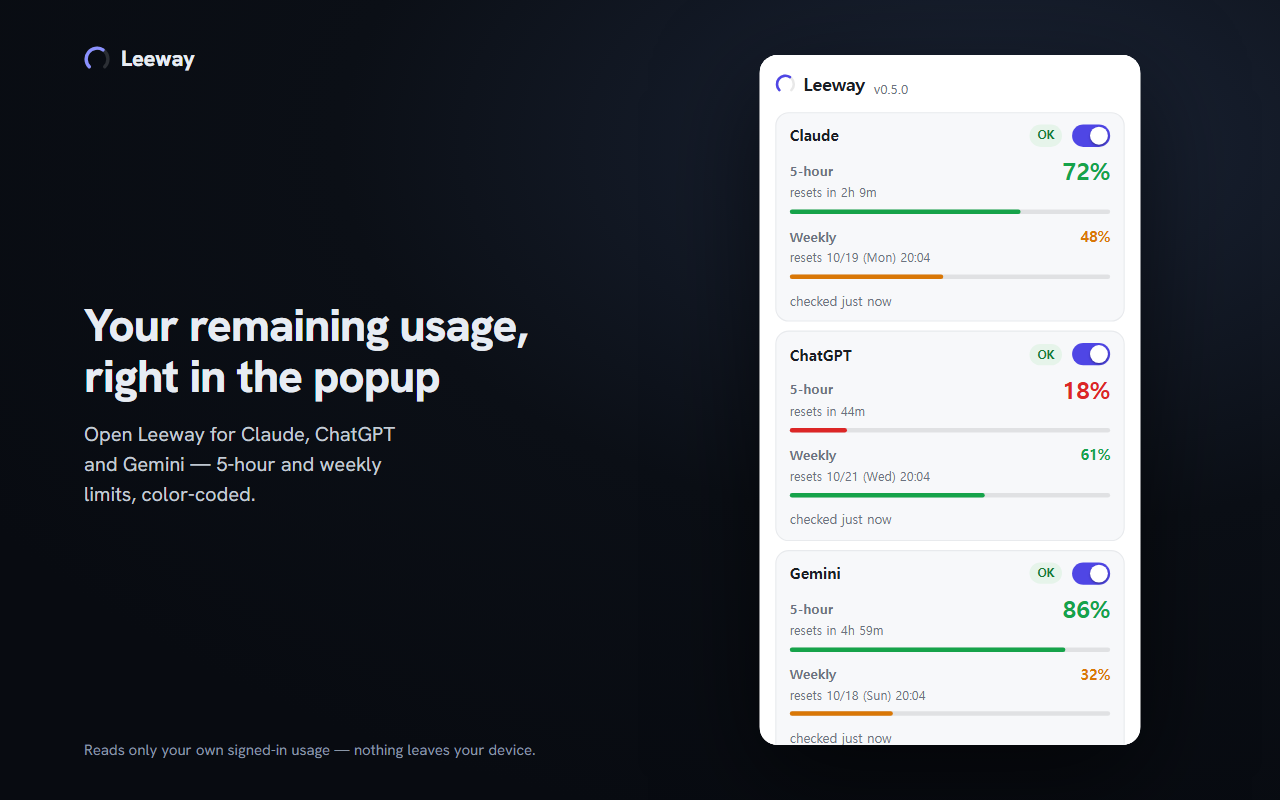
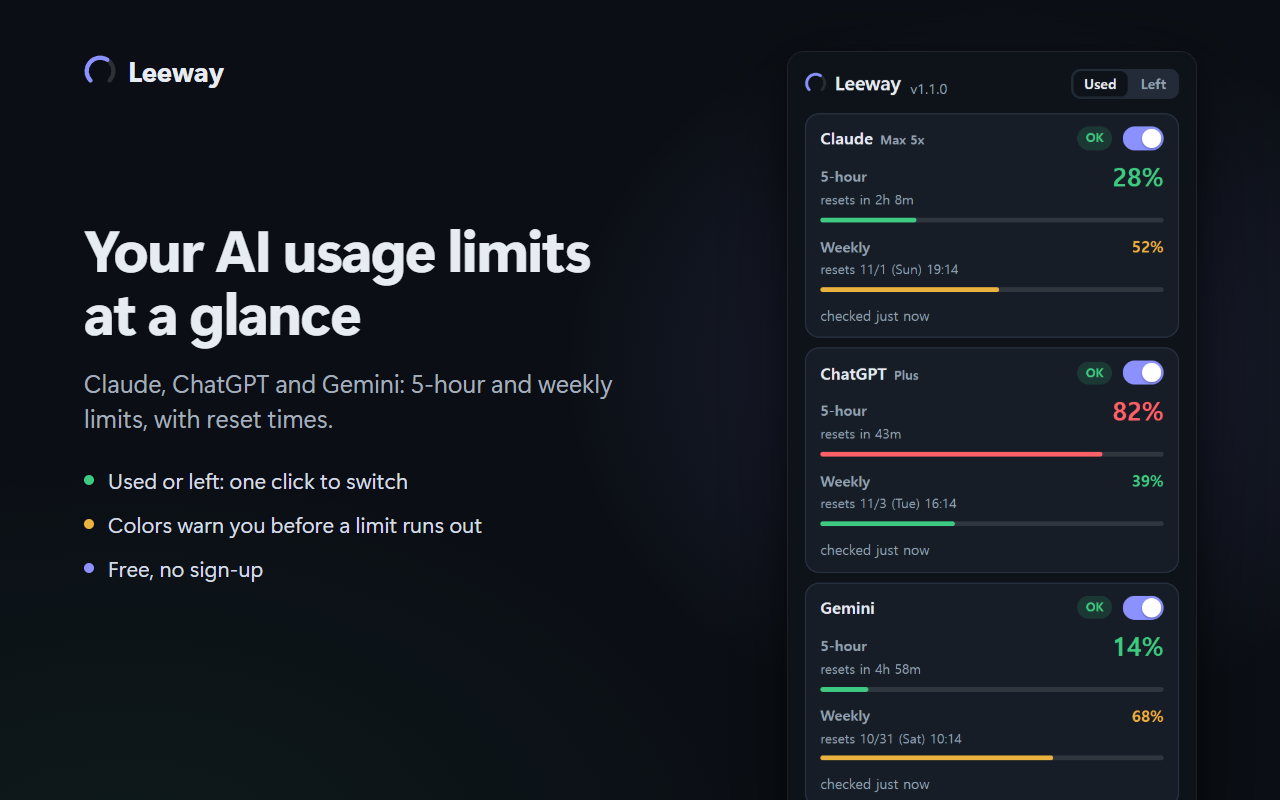
docs: used by default — README, site, llms.txt, privacy policy, store summary
The intro text said "remaining" everywhere; numbers are now the used
percentage unless the popup is switched to Left.

- README, both product pages (with their JSON-LD) and llms.txt: used or
  left, the switch, colours by what is left, the badge as the service
  closest to its limit. A new FAQ: "Can it show what is left instead?"
- Privacy policy (both copies): the intro, the switch's setting among
  what is stored, and the values sent to the helper stored as remaining.
- appDesc in six languages, and the Chinese app names without "剩余/剩餘".
- docs/img/popup.png: the 1.1.0 popup (demo values, used).

diff --git a/docs/ko/index.html b/docs/ko/index.html
@@ -3,16 +3,16 @@
 <head>
 <meta charset="utf-8">
 <meta name="viewport" content="width=device-width, initial-scale=1">
-<title>Leeway — Claude·ChatGPT·Gemini 남은 사용량을 Chrome에서</title>
-<meta name="description" content="Leeway는 Claude, ChatGPT, Gemini의 5시간·주간 사용량 한도가 얼마나 남았는지 팝업, 툴바 배지, 항상 위에 뜨는 오버레이로 보여주는 무료 오픈소스 Chrome 확장 프로그램입니다.">
+<title>Leeway — Claude·ChatGPT·Gemini 사용량 한도를 Chrome에서</title>
+<meta name="description" content="Leeway는 Claude, ChatGPT, Gemini의 5시간·주간 사용량 한도를 얼마나 썼는지(또는 얼마나 남았는지) 팝업, 툴바 배지, 항상 위에 뜨는 오버레이로 보여주는 무료 오픈소스 Chrome 확장 프로그램입니다.">
 <link rel="canonical" href="https://donasman.github.io/leeway/ko/">
 <link rel="alternate" hreflang="en" href="https://donasman.github.io/leeway/">
 <link rel="alternate" hreflang="ko" href="https://donasman.github.io/leeway/ko/">
 <link rel="alternate" hreflang="x-default" href="https://donasman.github.io/leeway/">
 <meta property="og:type" content="website">
 <meta property="og:locale" content="ko_KR">
-<meta property="og:title" content="Leeway — Claude·ChatGPT·Gemini 남은 사용량을 Chrome에서">
-<meta property="og:description" content="5시간·주간 AI 사용량 한도가 얼마나 남았는지 Chrome 툴바에서 바로 확인. 무료, 오픈소스, 데이터는 내 컴퓨터 밖으로 나가지 않습니다.">
+<meta property="og:title" content="Leeway — Claude·ChatGPT·Gemini 사용량 한도를 Chrome에서">
+<meta property="og:description" content="5시간·주간 AI 사용량 한도를 얼마나 썼는지, 얼마나 남았는지 Chrome 툴바에서 바로 확인. 무료, 오픈소스, 데이터는 내 컴퓨터 밖으로 나가지 않습니다.">
 <meta property="og:url" content="https://donasman.github.io/leeway/ko/">
 <meta property="og:image" content="https://donasman.github.io/leeway/img/popup.png">
 <meta name="twitter:card" content="summary_large_image">
@@ -22,7 +22,7 @@
   "@type": "SoftwareApplication",
   "name": "Leeway — AI usage & limits meter",
   "alternateName": "Leeway",
-  "description": "Claude, ChatGPT, Gemini의 5시간·주간 사용량 한도가 얼마나 남았는지 팝업, 툴바 배지, 항상 위 오버레이로 보여주는 Chrome 확장 프로그램.",
+  "description": "Claude, ChatGPT, Gemini의 5시간·주간 사용량 한도를 사용한 비율 또는 남은 비율로 팝업, 툴바 배지, 항상 위 오버레이에 보여주는 Chrome 확장 프로그램.",
   "applicationCategory": "BrowserApplication",
   "operatingSystem": "Google Chrome on Windows, macOS, Linux and ChromeOS",
   "url": "https://donasman.github.io/leeway/ko/",
@@ -44,17 +44,19 @@
   "inLanguage": "ko",
   "mainEntity": [
     {"@type": "Question", "name": "Claude 사용량이 얼마나 남았는지 어떻게 확인하나요?",
-     "acceptedAnswer": {"@type": "Answer", "text": "Chrome 웹 스토어에서 Leeway를 설치하고 팝업에서 Claude를 켜세요. Chrome에서 claude.ai에 로그인되어 있으면 팝업에 5시간·주간 한도의 남은 비율과 초기화 시각이 나오고, 툴바 배지에는 가장 낮은 남은 값이 표시됩니다."}},
+     "acceptedAnswer": {"@type": "Answer", "text": "Chrome 웹 스토어에서 Leeway를 설치하고 팝업에서 Claude를 켜세요. Chrome에서 claude.ai에 로그인되어 있으면 팝업에 5시간·주간 한도를 사용한 비율과 초기화 시각이 나오고, 툴바 배지에는 한도에 가장 가까운 서비스의 값이 표시됩니다. 남은 비율로 보려면 팝업 위쪽에서 남음을 고르세요."}},
+    {"@type": "Question", "name": "사용한 비율 대신 남은 비율로 볼 수 있나요?",
+     "acceptedAnswer": {"@type": "Answer", "text": "네. 팝업 위쪽의 사용 | 남음 전환으로 팝업, 오버레이, 툴바 배지의 모든 숫자를 남은 비율로 바꾸거나 되돌릴 수 있고, 고른 것은 기억합니다. 기본은 사용입니다. 색은 어느 쪽이든 남은 양을 따르므로 85% 사용이면 빨강입니다."}},
     {"@type": "Question", "name": "ChatGPT와 Gemini도 되나요?",
      "acceptedAnswer": {"@type": "Answer", "text": "네. ChatGPT는 설정 > 사용량 화면에 나오는 값, 즉 Codex, Work, 워크스페이스 에이전트, ChatGPT for Excel이 함께 쓰는 요금제 한도를 보여줍니다. 일반 채팅 대화는 그 화면에서 집계되지 않습니다. Gemini는 열려 있는 gemini.google.com/usage 탭의 숫자를 읽으므로 그 페이지가 열려 있어야 합니다. 팝업의 Gemini 사용량 버튼을 누르면 그 페이지를 열거나 이미 열린 탭으로 이동하고, 로드된 뒤 자동으로 읽습니다. Leeway는 그 탭이 메모리에서 내려가지 않게 하고, 뒤에 있는 탭의 숫자가 5분보다 오래됐거나 Chrome이 탭을 재웠으면 그 탭을 새로고침합니다. 보고 있는 탭은 건드리지 않습니다."}},
     {"@type": "Question", "name": "쿠키, 비밀번호, API 키를 넣어야 하나요?",
      "acceptedAnswer": {"@type": "Answer", "text": "아니요. Leeway는 Chrome에 이미 로그인된 세션을 그대로 씁니다. 비밀번호, 쿠키, API 키를 요구하지 않고, 세션 토큰은 저장·기록·전송하지 않습니다."}},
     {"@type": "Question", "name": "대화 내용을 읽나요?",
      "acceptedAnswer": {"@type": "Answer", "text": "아니요. 사용량 한도만 읽습니다. 페이지 스크립트는 각 서비스의 사용량 화면에서만 실행되고 대화 페이지에서는 실행되지 않습니다."}},
-    {"@type": "Question", "name": "작업하면서 남은 사용량을 계속 볼 수 있나요?",
+    {"@type": "Question", "name": "작업하면서 사용량을 계속 볼 수 있나요?",
      "acceptedAnswer": {"@type": "Answer", "text": "네. 팝업의 오버레이 열기를 누르면 작은 Leeway 창이 열리고, 그 창의 항상 위에 띄우기 버튼을 누르거나 바로 Enter를 누르면 Chrome의 Document Picture-in-Picture로 항상 위에 뜨는 작은 창이 열립니다(Chrome 116 이상). 클릭하면 한 줄로 접힙니다."}},
     {"@type": "Question", "name": "여러 계정을 한 번에 볼 수 있나요?",
-     "acceptedAnswer": {"@type": "Answer", "text": "claude.ai 로그인 하나가 개인 요금제와 Team 워크스페이스처럼 여러 조직에 속해 있으면 조직별로 따로 보여줍니다. 다른 계정은 계정마다 Chrome 프로필을 따로 두고 로그인하세요. Windows에서는 선택 기능인 Leeway helper(실험 기능)로 각 프로필이 다른 프로필의 남은 사용량도 함께 보여줍니다."}},
+     "acceptedAnswer": {"@type": "Answer", "text": "claude.ai 로그인 하나가 개인 요금제와 Team 워크스페이스처럼 여러 조직에 속해 있으면 조직별로 따로 보여줍니다. 다른 계정은 계정마다 Chrome 프로필을 따로 두고 로그인하세요. Windows에서는 선택 기능인 Leeway helper(실험 기능)로 각 프로필이 다른 프로필의 사용량도 함께 보여줍니다."}},
     {"@type": "Question", "name": "무료인가요? 공식 프로그램인가요?",
      "acceptedAnswer": {"@type": "Answer", "text": "Leeway는 MIT 라이선스의 무료 오픈소스입니다. Anthropic, OpenAI, Google과 관계없는 독립 프로젝트입니다."}}
   ]
@@ -95,18 +97,19 @@ footer{border-top:1px solid var(--line);margin-top:48px;padding-top:18px;color:v
 <div class="wrap">
 <nav><strong>Leeway</strong><span><a href="../">English</a><a href="../privacy/">개인정보처리방침</a><a href="https://github.com/donasman/leeway">GitHub</a></span></nav>
 
-<h1>Claude·ChatGPT·Gemini 남은 사용량을 Chrome에서 바로</h1>
-<p class="lead">Leeway는 AI 사용량 한도(5시간·주간)가 얼마나 남았는지 팝업, 툴바 배지, 항상 위에 뜨는 오버레이로 보여주는 무료 오픈소스 Chrome 확장 프로그램입니다.</p>
+<h1>Claude·ChatGPT·Gemini 사용량 한도를 Chrome에서 바로</h1>
+<p class="lead">Leeway는 AI 사용량 한도(5시간·주간)를 얼마나 썼는지, 또는 얼마나 남았는지 팝업, 툴바 배지, 항상 위에 뜨는 오버레이로 보여주는 무료 오픈소스 Chrome 확장 프로그램입니다.</p>
 <div class="cta">
   <a class="btn primary" href="https://chromewebstore.google.com/detail/dlifmhanolkjflblnofiifgkffhkpgga">Chrome에 추가 — 무료</a>
   <a class="btn" href="https://github.com/donasman/leeway">GitHub 소스</a>
 </div>
-<img class="shot" src="../img/popup.png" width="1280" height="800" alt="Claude, ChatGPT, Gemini의 5시간·주간 남은 사용량을 색으로 구분한 비율과 초기화 시각으로 보여주는 Leeway 팝업">
+<img class="shot" src="../img/popup.png" width="1280" height="800" alt="Claude, ChatGPT, Gemini의 5시간·주간 사용량을 색으로 구분한 비율과 초기화 시각으로 보여주는 Leeway 팝업">
 
 <h2>보여주는 것</h2>
 <ul>
-  <li><strong>남은 비율과 초기화 시각</strong> — 로그인된 사용량 화면이 보여주는 바로 그 숫자입니다. 토큰 수로 추정한 값이 아닙니다. 읽지 못한 값은 0%가 아니라 <code>?</code>로 표시합니다.</li>
-  <li><strong>툴바 배지</strong> — 켜 둔 서비스 중 가장 낮은 남은 값. 50 이상 초록, 20~49 주황, 20 미만 빨강, 오래된 값은 회색.</li>
+  <li><strong>사용한 비율과 초기화 시각</strong> — 로그인된 사용량 화면이 보여주는 바로 그 숫자입니다. 토큰 수로 추정한 값이 아닙니다. 읽지 못한 값은 0%가 아니라 <code>?</code>로 표시합니다.</li>
+  <li><strong>사용 또는 남음</strong> — 팝업 위쪽의 전환으로 팝업, 오버레이, 배지의 모든 숫자를 남은 비율로 바꾸거나 되돌립니다. 색은 어느 쪽이든 남은 양을 따릅니다.</li>
+  <li><strong>툴바 배지</strong> — 켜 둔 서비스 중 한도에 가장 가까운 서비스의 값. 남은 양이 50% 이상이면 초록, 20~49%면 주황, 20% 미만이면 빨강, 오래된 값은 회색.</li>
   <li><strong>항상 위 오버레이</strong> — Chrome의 Document Picture-in-Picture(Chrome 116 이상). 팝업의 오버레이 열기, 이어서 Leeway 창의 항상 위에 띄우기(또는 Enter)를 누릅니다. 클릭하면 한 줄로 접힙니다.</li>
   <li><strong>요금제 이름</strong> — 서비스가 알려 주면 Max 5x, Plus처럼 표시합니다.</li>
   <li><strong>Claude 조직별 사용량</strong> — 로그인 하나가 개인 요금제와 Team 워크스페이스처럼 여러 조직에 속해 있으면 각각 따로 보여줍니다.</li>
@@ -133,21 +136,23 @@ footer{border-top:1px solid var(--line);margin-top:48px;padding-top:18px;color:v
 <p>자세한 내용: <a href="../privacy/">개인정보처리방침</a>(영문)</p>
 
 <h2>여러 계정</h2>
-<p>여러 계정을 보려면 계정마다 Chrome 프로필을 따로 만들어 로그인하고, 각 프로필에 Leeway를 추가하세요. Windows에서는 선택 기능인 <a href="https://github.com/donasman/leeway/releases/latest">Leeway helper</a>로 각 프로필의 팝업과 오버레이가 다른 프로필의 남은 사용량도 함께 보여줍니다. 실험 기능이고 기본은 꺼져 있으며, 팝업에 보이는 숫자만 내 컴퓨터의 파일을 통해 주고받습니다.</p>
+<p>여러 계정을 보려면 계정마다 Chrome 프로필을 따로 만들어 로그인하고, 각 프로필에 Leeway를 추가하세요. Windows에서는 선택 기능인 <a href="https://github.com/donasman/leeway/releases/latest">Leeway helper</a>로 각 프로필의 팝업과 오버레이가 다른 프로필의 사용량도 함께 보여줍니다. 실험 기능이고 기본은 꺼져 있으며, 팝업에 보이는 숫자만 내 컴퓨터의 파일을 통해 주고받습니다.</p>
 
 <h2>자주 묻는 질문</h2>
 <h3>Claude 사용량이 얼마나 남았는지 어떻게 확인하나요?</h3>
-<p>Chrome 웹 스토어에서 Leeway를 설치하고 팝업에서 Claude를 켜세요. Chrome에서 claude.ai에 로그인되어 있으면 팝업에 5시간·주간 한도의 남은 비율과 초기화 시각이 나오고, 툴바 배지에는 가장 낮은 남은 값이 표시됩니다.</p>
+<p>Chrome 웹 스토어에서 Leeway를 설치하고 팝업에서 Claude를 켜세요. Chrome에서 claude.ai에 로그인되어 있으면 팝업에 5시간·주간 한도를 사용한 비율과 초기화 시각이 나오고, 툴바 배지에는 한도에 가장 가까운 서비스의 값이 표시됩니다. 남은 비율로 보려면 팝업 위쪽에서 남음을 고르세요.</p>
+<h3>사용한 비율 대신 남은 비율로 볼 수 있나요?</h3>
+<p>네. 팝업 위쪽의 사용 | 남음 전환으로 팝업, 오버레이, 툴바 배지의 모든 숫자를 남은 비율로 바꾸거나 되돌릴 수 있고, 고른 것은 기억합니다. 기본은 사용입니다. 색은 어느 쪽이든 남은 양을 따르므로 85% 사용이면 빨강입니다.</p>
 <h3>ChatGPT와 Gemini도 되나요?</h3>
 <p>네. ChatGPT는 설정 &gt; 사용량 화면에 나오는 값, 즉 Codex, Work, 워크스페이스 에이전트, ChatGPT for Excel이 함께 쓰는 요금제 한도를 보여줍니다. 일반 채팅 대화는 그 화면에서 집계되지 않습니다. Gemini는 열려 있는 gemini.google.com/usage 탭의 숫자를 읽으므로 그 페이지가 열려 있어야 합니다. 팝업의 Gemini 사용량 버튼을 누르면 그 페이지를 열거나 이미 열린 탭으로 이동하고, 로드된 뒤 자동으로 읽습니다. Leeway는 그 탭이 메모리에서 내려가지 않게 하고, 뒤에 있는 탭의 숫자가 5분보다 오래됐거나 Chrome이 탭을 재웠으면 그 탭을 새로고침합니다. 보고 있는 탭은 건드리지 않습니다.</p>
 <h3>쿠키, 비밀번호, API 키를 넣어야 하나요?</h3>
 <p>아니요. Leeway는 Chrome에 이미 로그인된 세션을 그대로 씁니다. 비밀번호, 쿠키, API 키를 요구하지 않고, 세션 토큰은 저장·기록·전송하지 않습니다.</p>
 <h3>대화 내용을 읽나요?</h3>
 <p>아니요. 사용량 한도만 읽습니다. 페이지 스크립트는 각 서비스의 사용량 화면에서만 실행되고 대화 페이지에서는 실행되지 않습니다.</p>
-<h3>작업하면서 남은 사용량을 계속 볼 수 있나요?</h3>
+<h3>작업하면서 사용량을 계속 볼 수 있나요?</h3>
 <p>네. 팝업의 오버레이 열기를 누르면 작은 Leeway 창이 열리고, 그 창의 항상 위에 띄우기 버튼을 누르거나 바로 Enter를 누르면 Chrome의 Document Picture-in-Picture로 항상 위에 뜨는 작은 창이 열립니다(Chrome 116 이상). 클릭하면 한 줄로 접힙니다.</p>
 <h3>여러 계정을 한 번에 볼 수 있나요?</h3>
-<p>claude.ai 로그인 하나가 개인 요금제와 Team 워크스페이스처럼 여러 조직에 속해 있으면 조직별로 따로 보여줍니다. 다른 계정은 계정마다 Chrome 프로필을 따로 두고 로그인하세요. Windows에서는 선택 기능인 Leeway helper(실험 기능)로 각 프로필이 다른 프로필의 남은 사용량도 함께 보여줍니다.</p>
+<p>claude.ai 로그인 하나가 개인 요금제와 Team 워크스페이스처럼 여러 조직에 속해 있으면 조직별로 따로 보여줍니다. 다른 계정은 계정마다 Chrome 프로필을 따로 두고 로그인하세요. Windows에서는 선택 기능인 Leeway helper(실험 기능)로 각 프로필이 다른 프로필의 사용량도 함께 보여줍니다.</p>
 <h3>무료인가요? 공식 프로그램인가요?</h3>
 <p>Leeway는 MIT 라이선스의 무료 오픈소스입니다. Anthropic, OpenAI, Google과 관계없는 독립 프로젝트입니다.</p>
 

diff --git a/docs/index.html b/docs/index.html
@@ -3,16 +3,16 @@
 <head>
 <meta charset="utf-8">
 <meta name="viewport" content="width=device-width, initial-scale=1">
-<title>Leeway — remaining Claude, ChatGPT & Gemini usage in Chrome</title>
-<meta name="description" content="Leeway is a free, open-source Chrome extension that shows how much of your Claude, ChatGPT and Gemini usage limits is left — 5-hour and weekly — in a popup, the toolbar badge and an always-on-top overlay.">
+<title>Leeway — Claude, ChatGPT & Gemini usage limits in Chrome</title>
+<meta name="description" content="Leeway is a free, open-source Chrome extension that shows how much of your Claude, ChatGPT and Gemini usage limits you have used, or what is left — 5-hour and weekly — in a popup, the toolbar badge and an always-on-top overlay.">
 <meta name="google-site-verification" content="3_v0gmq59-syXX8tBQA9s7fN2uq2MabuLaJn7PKj5qA">
 <link rel="canonical" href="https://donasman.github.io/leeway/">
 <link rel="alternate" hreflang="en" href="https://donasman.github.io/leeway/">
 <link rel="alternate" hreflang="ko" href="https://donasman.github.io/leeway/ko/">
 <link rel="alternate" hreflang="x-default" href="https://donasman.github.io/leeway/">
 <meta property="og:type" content="website">
-<meta property="og:title" content="Leeway — remaining Claude, ChatGPT & Gemini usage in Chrome">
-<meta property="og:description" content="See how much of your 5-hour and weekly AI usage limits is left, in Chrome's toolbar. Free, open source, nothing leaves your device.">
+<meta property="og:title" content="Leeway — Claude, ChatGPT & Gemini usage limits in Chrome">
+<meta property="og:description" content="See how much of your 5-hour and weekly AI usage limits you have used, or what is left, in Chrome's toolbar. Free, open source, nothing leaves your device.">
 <meta property="og:url" content="https://donasman.github.io/leeway/">
 <meta property="og:image" content="https://donasman.github.io/leeway/img/popup.png">
 <meta name="twitter:card" content="summary_large_image">
@@ -22,7 +22,7 @@
   "@type": "SoftwareApplication",
   "name": "Leeway — AI usage & limits meter",
   "alternateName": "Leeway",
-  "description": "Chrome extension that shows the remaining Claude, ChatGPT and Gemini usage limits (5-hour and weekly) in a popup, the toolbar badge and an always-on-top overlay.",
+  "description": "Chrome extension that shows Claude, ChatGPT and Gemini usage limits (5-hour and weekly), used or left, in a popup, the toolbar badge and an always-on-top overlay.",
   "applicationCategory": "BrowserApplication",
   "operatingSystem": "Google Chrome on Windows, macOS, Linux and ChromeOS",
   "url": "https://donasman.github.io/leeway/",
@@ -34,11 +34,12 @@
   "license": "https://opensource.org/licenses/MIT",
   "inLanguage": ["en", "ko", "es", "ja", "zh-CN", "zh-TW"],
   "featureList": [
-    "Remaining percentage and reset time of the Claude, ChatGPT and Gemini 5-hour and weekly limits",
-    "Toolbar badge with the lowest remaining value, color-coded",
+    "Used percentage and reset time of the Claude, ChatGPT and Gemini 5-hour and weekly limits",
+    "Used | Left switch: every number shows what is used or what is left",
+    "Toolbar badge for the service closest to its limit, color-coded",
     "Always-on-top floating overlay (Chrome Document Picture-in-Picture)",
     "Plan names such as Max 5x or Plus",
-    "Every Claude organization of one sign-in, each with its own remaining usage",
+    "Every Claude organization of one sign-in, each with its own usage",
     "No sign-in, no cookie or API key to paste, no server, no analytics"
   ],
   "author": {"@type": "Person", "name": "Jeong GeonHui", "url": "https://github.com/donasman"},
@@ -51,17 +52,19 @@
   "@type": "FAQPage",
   "mainEntity": [
     {"@type": "Question", "name": "How do I see how much of my Claude usage limit is left?",
-     "acceptedAnswer": {"@type": "Answer", "text": "Install Leeway from the Chrome Web Store, open its popup and turn on Claude. While you are signed in to claude.ai in Chrome, the popup shows the remaining percentage of your 5-hour and weekly limits and when each resets, and the toolbar badge shows the lowest remaining value."}},
+     "acceptedAnswer": {"@type": "Answer", "text": "Install Leeway from the Chrome Web Store, open its popup and turn on Claude. While you are signed in to claude.ai in Chrome, the popup shows how much of your 5-hour and weekly limits you have used and when each resets, and the toolbar badge shows the service closest to its limit. To see what is left instead, switch the popup to Left."}},
+    {"@type": "Question", "name": "Can it show what is left instead of what is used?",
+     "acceptedAnswer": {"@type": "Answer", "text": "Yes. The Used | Left switch at the top of the popup turns every number — popup, overlay and toolbar badge — into the remaining percentage, and back. Leeway remembers the choice; Used is the default. Colors follow what is left either way, so 85% used is red."}},
     {"@type": "Question", "name": "Does Leeway work with ChatGPT and Gemini too?",
      "acceptedAnswer": {"@type": "Answer", "text": "Yes. For ChatGPT it shows what ChatGPT's Settings > Usage page shows: the plan limits shared by Codex, Work, workspace agents and ChatGPT for Excel. Ordinary chat conversations are not counted there. For Gemini it reads the numbers on an open gemini.google.com/usage tab, so that page needs to be open. The popup's Gemini usage button opens that page, or switches to it if it is already open, and reads it once it has loaded. Leeway keeps that tab from being unloaded, and when it sits in the background with numbers more than five minutes old (or Chrome put it to sleep) Leeway reloads it, never while you are looking at it."}},
     {"@type": "Question", "name": "Do I need to paste a cookie, password or API key?",
      "acceptedAnswer": {"@type": "Answer", "text": "No. Leeway uses the sessions you are already signed in to in Chrome. It never asks for a password, cookie or API key, and session tokens are never stored, logged or sent anywhere."}},
     {"@type": "Question", "name": "Does Leeway read my conversations?",
      "acceptedAnswer": {"@type": "Answer", "text": "No. It reads only the usage limits. Its page script runs only on a service's usage screen, never on a conversation page."}},
-    {"@type": "Question", "name": "Can I keep my remaining usage visible while I work?",
+    {"@type": "Question", "name": "Can I keep my usage visible while I work?",
      "acceptedAnswer": {"@type": "Answer", "text": "Yes. Open overlay in the popup opens a small Leeway window, and its Float on top button (or Enter, right after) opens a small always-on-top window through Chrome's Document Picture-in-Picture (Chrome 116 or later). Click it to collapse it to one line."}},
     {"@type": "Question", "name": "Can I see several accounts at once?",
-     "acceptedAnswer": {"@type": "Answer", "text": "If one claude.ai sign-in belongs to several organizations, such as a personal plan and a Team workspace, each is shown separately. For separate accounts, sign in to each in its own Chrome profile; on Windows the optional, experimental Leeway helper lets every profile show the others' remaining usage."}},
+     "acceptedAnswer": {"@type": "Answer", "text": "If one claude.ai sign-in belongs to several organizations, such as a personal plan and a Team workspace, each is shown separately. For separate accounts, sign in to each in its own Chrome profile; on Windows the optional, experimental Leeway helper lets every profile show the others' usage."}},
     {"@type": "Question", "name": "Is Leeway free? Is it official?",
      "acceptedAnswer": {"@type": "Answer", "text": "Leeway is free and open source under the MIT license. It is an independent project, not affiliated with Anthropic, OpenAI or Google."}}
   ]
@@ -102,21 +105,22 @@ footer{border-top:1px solid var(--line);margin-top:48px;padding-top:18px;color:v
 <div class="wrap">
 <nav><strong>Leeway</strong><span><a href="ko/">한국어</a><a href="privacy/">Privacy</a><a href="https://github.com/donasman/leeway">GitHub</a></span></nav>
 
-<h1>Remaining Claude, ChatGPT &amp; Gemini usage, right in Chrome</h1>
-<p class="lead">Leeway is a free, open-source Chrome extension that shows how much of your AI usage limits is left — the 5-hour and weekly limits — in a popup, the toolbar badge and an always-on-top overlay.</p>
+<h1>Claude, ChatGPT &amp; Gemini usage limits, right in Chrome</h1>
+<p class="lead">Leeway is a free, open-source Chrome extension that shows how much of your AI usage limits you have used, or what is left — the 5-hour and weekly limits — in a popup, the toolbar badge and an always-on-top overlay.</p>
 <div class="cta">
   <a class="btn primary" href="https://chromewebstore.google.com/detail/dlifmhanolkjflblnofiifgkffhkpgga">Add to Chrome — free</a>
   <a class="btn" href="https://github.com/donasman/leeway">Source on GitHub</a>
 </div>
-<img class="shot" src="img/popup.png" width="1280" height="800" alt="Leeway popup showing the remaining 5-hour and weekly usage for Claude, ChatGPT and Gemini as color-coded percentages with reset times">
+<img class="shot" src="img/popup.png" width="1280" height="800" alt="Leeway popup showing the 5-hour and weekly usage for Claude, ChatGPT and Gemini as color-coded percentages with reset times">
 
 <h2>What it shows</h2>
 <ul>
-  <li><strong>Remaining percentage and reset time</strong> of each limit — the same numbers your signed-in usage pages show, not a token-count estimate. A value that could not be read is shown as <code>?</code>, never as 0%.</li>
-  <li><strong>Toolbar badge</strong> with the lowest remaining value among the services you turned on: green from 50, orange from 20 to 49, red below 20, grey when the value is old.</li>
+  <li><strong>Used percentage and reset time</strong> of each limit — the same numbers your signed-in usage pages show, not a token-count estimate. A value that could not be read is shown as <code>?</code>, never as 0%.</li>
+  <li><strong>Used or left</strong>: the switch at the top of the popup turns every number — popup, overlay and badge — into what is left, and back. Colors follow what is left either way.</li>
+  <li><strong>Toolbar badge</strong> for the service closest to its limit among those you turned on: green with 50% or more left, orange from 20 to 49% left, red below 20% left, grey when the value is old.</li>
   <li><strong>Always-on-top overlay</strong> through Chrome's Document Picture-in-Picture (Chrome 116+): Open overlay in the popup, then Float on top in the Leeway window (or press Enter). Click it to collapse it to one line.</li>
   <li><strong>Plan names</strong> such as Max 5x or Plus, when the service reports them.</li>
-  <li><strong>Every Claude organization</strong> of your sign-in (for example a personal plan and a Team workspace), each with its own remaining usage.</li>
+  <li><strong>Every Claude organization</strong> of your sign-in (for example a personal plan and a Team workspace), each with its own usage.</li>
   <li>Values refresh every minute and when you open the popup; <strong>Refresh</strong> reads them right away.</li>
   <li>In English, Korean, Spanish, Japanese and Chinese (Simplified and Traditional).</li>
 </ul>
@@ -140,21 +144,23 @@ footer{border-top:1px solid var(--line);margin-top:48px;padding-top:18px;color:v
 <p>Full details: <a href="privacy/">privacy policy</a>.</p>
 
 <h2>Several accounts</h2>
-<p>To watch several accounts, sign in to each in its own Chrome profile and add Leeway to each. On Windows, the optional <a href="https://github.com/donasman/leeway/releases/latest">Leeway helper</a> lets every profile's popup and overlay show the other profiles' remaining usage. It is experimental, off by default, and passes only the numbers the popup shows, through a file on your computer.</p>
+<p>To watch several accounts, sign in to each in its own Chrome profile and add Leeway to each. On Windows, the optional <a href="https://github.com/donasman/leeway/releases/latest">Leeway helper</a> lets every profile's popup and overlay show the other profiles' usage. It is experimental, off by default, and passes only the numbers the popup shows, through a file on your computer.</p>
 
 <h2>FAQ</h2>
 <h3>How do I see how much of my Claude usage limit is left?</h3>
-<p>Install Leeway from the Chrome Web Store, open its popup and turn on Claude. While you are signed in to claude.ai in Chrome, the popup shows the remaining percentage of your 5-hour and weekly limits and when each resets, and the toolbar badge shows the lowest remaining value.</p>
+<p>Install Leeway from the Chrome Web Store, open its popup and turn on Claude. While you are signed in to claude.ai in Chrome, the popup shows how much of your 5-hour and weekly limits you have used and when each resets, and the toolbar badge shows the service closest to its limit. To see what is left instead, switch the popup to Left.</p>
+<h3>Can it show what is left instead of what is used?</h3>
+<p>Yes. The Used | Left switch at the top of the popup turns every number — popup, overlay and toolbar badge — into the remaining percentage, and back. Leeway remembers the choice; Used is the default. Colors follow what is left either way, so 85% used is red.</p>
 <h3>Does Leeway work with ChatGPT and Gemini too?</h3>
 <p>Yes. For ChatGPT it shows what ChatGPT's Settings &gt; Usage page shows: the plan limits shared by Codex, Work, workspace agents and ChatGPT for Excel. Ordinary chat conversations are not counted there. For Gemini it reads the numbers on an open gemini.google.com/usage tab, so that page needs to be open. The popup's Gemini usage button opens that page, or switches to it if it is already open, and reads it once it has loaded. Leeway keeps that tab from being unloaded, and when it sits in the background with numbers more than five minutes old (or Chrome put it to sleep) Leeway reloads it, never while you are looking at it.</p>
 <h3>Do I need to paste a cookie, password or API key?</h3>
 <p>No. Leeway uses the sessions you are already signed in to in Chrome. It never asks for a password, cookie or API key, and session tokens are never stored, logged or sent anywhere.</p>
 <h3>Does Leeway read my conversations?</h3>
 <p>No. It reads only the usage limits. Its page script runs only on a service's usage screen, never on a conversation page.</p>
-<h3>Can I keep my remaining usage visible while I work?</h3>
+<h3>Can I keep my usage visible while I work?</h3>
 <p>Yes. Open overlay in the popup opens a small Leeway window, and its Float on top button (or Enter, right after) opens a small always-on-top window through Chrome's Document Picture-in-Picture (Chrome 116 or later). Click it to collapse it to one line.</p>
 <h3>Can I see several accounts at once?</h3>
-<p>If one claude.ai sign-in belongs to several organizations, such as a personal plan and a Team workspace, each is shown separately. For separate accounts, sign in to each in its own Chrome profile; on Windows the optional, experimental Leeway helper lets every profile show the others' remaining usage.</p>
+<p>If one claude.ai sign-in belongs to several organizations, such as a personal plan and a Team workspace, each is shown separately. For separate accounts, sign in to each in its own Chrome profile; on Windows the optional, experimental Leeway helper lets every profile show the others' usage.</p>
 <h3>Is Leeway free? Is it official?</h3>
 <p>Leeway is free and open source under the MIT license. It is an independent project, not affiliated with Anthropic, OpenAI or Google.</p>
 

diff --git a/docs/privacy/index.html b/docs/privacy/index.html
@@ -4,7 +4,7 @@
 <meta charset="utf-8">
 <meta name="viewport" content="width=device-width, initial-scale=1">
 <title>Leeway — Privacy Policy</title>
-<meta name="description" content="Privacy policy for Leeway, the Chrome extension that shows your remaining Claude, ChatGPT and Gemini usage.">
+<meta name="description" content="Privacy policy for Leeway, the Chrome extension that shows your Claude, ChatGPT and Gemini usage limits.">
 <link rel="canonical" href="https://donasman.github.io/leeway/privacy/">
 <!-- Mirrors PRIVACY.md at the repository root; keep both in sync. -->
 <style>
@@ -33,11 +33,11 @@ footer{border-top:1px solid var(--line);margin-top:44px;padding-top:18px;color:v
 <header>
   <p class="sub"><a href="../">← Leeway</a></p>
   <h1>Privacy Policy — Leeway</h1>
-  <p class="sub">Last updated: 2026-10-28</p>
+  <p class="sub">Last updated: 2026-10-29</p>
   <span class="badge">Unofficial project — not affiliated with Anthropic, OpenAI or Google</span>
 </header>
 
-<p>Leeway is a Chrome extension that shows how much of your <strong>remaining</strong> usage is left on Claude, ChatGPT and Gemini, in its popup, toolbar badge, and an optional floating overlay. This policy explains exactly what it reads, where that stays, and what it never does.</p>
+<p>Leeway is a Chrome extension that shows how much of your Claude, ChatGPT and Gemini usage limits you have used (or, if you switch it, what is left), in its popup, toolbar badge, and an optional floating overlay. This policy explains exactly what it reads, where that stays, and what it never does.</p>
 
 <h2>Short version</h2>
 <ul>
@@ -62,6 +62,7 @@ footer{border-top:1px solid var(--line);margin-top:44px;padding-top:18px;color:v
   <li>The latest parsed usage snapshot per service (status, remaining percentages, reset times, the plan name, and for Claude one entry per organization), so the popup and badge can show it.</li>
   <li>Which services you turned on.</li>
   <li>Where you last left the Leeway window (its position and size on screen), so it reopens there.</li>
+  <li>Whether numbers are shown as used or as left (the popup's switch).</li>
 </ul>
 <p>All of this lives only in your browser profile, on your device. It is not sent anywhere. Removing the extension removes it.</p>
 
@@ -89,7 +90,7 @@ footer{border-top:1px solid var(--line);margin-top:44px;padding-top:18px;color:v
 <h2>Other Chrome profiles (optional, off by default)</h2>
 <p>If you use several Chrome profiles (for example one per Claude account), you can see all of their usage in one popup and overlay. This needs the Leeway helper, a small program you install yourself on Windows (<code>leeway-helper.exe</code>).</p>
 <ul>
-  <li><strong>What each profile sends to the helper</strong>: the same values its popup shows — remaining percentages, reset times, the plan name — plus the name you give the profile (e.g. "Work") and a random id Leeway made for that profile.</li>
+  <li><strong>What each profile sends to the helper</strong>: the usage values its popup shows — stored as remaining percentages — reset times, the plan name — plus the name you give the profile (e.g. "Work") and a random id Leeway made for that profile.</li>
   <li><strong>What it never sends</strong>: cookies, passwords, session or access tokens, email addresses, organization names, page text or conversations.</li>
   <li><strong>Where it goes</strong>: the helper keeps the entries in one file on your computer, <code>%LOCALAPPDATA%\Leeway\profiles.json</code>, so your other profiles can read them. The helper has no network access of its own and sends nothing anywhere.</li>
   <li><strong>How long</strong>: an entry is replaced on every refresh. Turning the feature off in a profile removes that profile's entry; an entry not refreshed for 7 days is removed; <code>leeway-helper.exe uninstall</code> removes the file and the helper.</li>

diff --git a/README.md b/README.md
@@ -1,14 +1,14 @@
 # Leeway
 
-Remaining **Claude, ChatGPT and Gemini** usage — the 5-hour and weekly limits — in Chrome's toolbar badge, a popup and an always-on-top overlay. Free and open source.
+**Claude, ChatGPT and Gemini** usage — how much of the 5-hour and weekly limits you have used, or what is left — in Chrome's toolbar badge, a popup and an always-on-top overlay. Free and open source.
 
 **[Add to Chrome (Chrome Web Store)](https://chromewebstore.google.com/detail/dlifmhanolkjflblnofiifgkffhkpgga)** · [Website](https://donasman.github.io/leeway/) · [한국어](https://donasman.github.io/leeway/ko/) · [Privacy policy](https://donasman.github.io/leeway/privacy/)
 
-![Leeway popup: remaining 5-hour and weekly usage for Claude, ChatGPT and Gemini](docs/img/popup.png)
+![Leeway popup: 5-hour and weekly usage for Claude, ChatGPT and Gemini](docs/img/popup.png)
 
-- Shows the remaining percentage and reset time that your signed-in usage pages show — not a token-count estimate.
+- Shows the percentage and reset time that your signed-in usage pages show — not a token-count estimate. Used by default; one click switches every number to what is left.
 - No sign-in, and no cookie, password or API key to paste. No server, no analytics; session tokens are never stored.
-- Toolbar badge with the lowest remaining value (color-coded), and a floating always-on-top overlay (Chrome 116+).
+- Toolbar badge for the service closest to its limit (color-coded), and a floating always-on-top overlay (Chrome 116+).
 - Plan names (Max 5x, Plus, …), every Claude organization of your sign-in, UI in 6 languages.
 
 > Unofficial project. Not affiliated with Anthropic, OpenAI or Google.
@@ -36,8 +36,9 @@ The floating overlay is built into the extension (click **Open overlay** in the 
 
 ## Popup
 
-For each service that is turned on, the popup shows the remaining percentage of each limit and when it resets. The 5-hour limit is the large number; an account without a 5-hour limit (e.g. ChatGPT Pro) shows its weekly limit there instead. 0% is shown as 0%; a value that could not be read is `?`.
+For each service that is turned on, the popup shows how much of each limit is used and when it resets. The **Used | Left** switch at the top of the popup turns every number — popup, overlay and toolbar badge — into what is left, and back; the choice is kept. The 5-hour limit is the large number; an account without a 5-hour limit (e.g. ChatGPT Pro) shows its weekly limit there instead. 0% is shown as 0%; a value that could not be read is `?`.
 
+- Colors follow what is left, whichever way the numbers read: green with half or more left, orange from 20% left, red below that — so 85% used is red. The bars are as long as the numbers shown.
 - The plan (e.g. `Max 5x`, `Plus`) is shown next to the service name when the service reports it. Gemini does not, so it has none.
 - One claude.ai sign-in can belong to several organizations (a personal plan and a Team workspace, say). Each one with chat limits gets its own block, named by its plan, so you can see which has how much left. The first one is the main value (the toolbar badge and the overlay's collapsed line).
 
@@ -49,7 +50,7 @@ For each service that is turned on, the popup shows the remaining percentage of 
 
 ## Other Chrome profiles (optional)
 
-To see several Claude (or ChatGPT, Gemini) accounts at once, sign in to each in its own Chrome profile and install Leeway in each. With the **Leeway helper** installed, every profile's popup and overlay also show the other profiles' remaining usage.
+To see several Claude (or ChatGPT, Gemini) accounts at once, sign in to each in its own Chrome profile and install Leeway in each. With the **Leeway helper** installed, every profile's popup and overlay also show the other profiles' usage.
 
 1. Download `leeway-helper.exe` from the [latest release](https://github.com/donasman/leeway/releases/latest) (the popup's **Get the helper (Windows)** link goes straight to it) and run it once. It registers itself for your Windows user (no administrator rights) and copies itself to `%LOCALAPPDATA%\Leeway\helper`. Each release also has `leeway-helper.exe.sha256` to check the download against.
 2. In each profile's popup, open **Experimental** and turn on **Other Chrome profiles** (Chrome asks for the "communicate with cooperating native applications" permission), then give the profile a name, e.g. `Work`.
@@ -61,7 +62,7 @@ Only the values the popup shows travel, through a file on your computer: no cook
 
 ## Toolbar badge
 
-The extension icon shows the lowest main value among the services that are turned on, as a number without `%` (e.g. `70`). Its colour follows that number: green from 50, orange from 20 to 49, red below 20, grey when it is more than 6 minutes old. `?` means services are on but none has a value yet; no badge means none is on. Hover the icon for each service's value and reset time.
+The extension icon shows the main value of the service closest to its limit among those turned on, as a number without `%` — how much is used (e.g. `30`), or what is left (`70`) when the popup is switched to **Left**. Its colour follows what is left: green from 50% left, orange from 20 to 49% left, red below 20% left, grey when it is more than 6 minutes old. `?` means services are on but none has a value yet; no badge means none is on. Hover the icon for each service's value and reset time.
 
 ## ChatGPT
 
@@ -75,7 +76,7 @@ If that endpoint fails (it is unofficial and may change), and a Settings > Usage
 
 ## Overlay
 
-Click **Open overlay** in the popup — the same on any tab — to open the small Leeway window, which shows the same remaining-usage bars as the popup. Its **Float on top** button opens a small always-on-top window through Chrome's Document Picture-in-Picture — no separate app to install (needs Chrome 116+) — and then minimizes the Leeway window. The button has the focus when the window opens, so **Open overlay** then Enter does it too. Chrome lets only a click or key press in the Leeway window itself open that window, so the popup's click can't do both.
+Click **Open overlay** in the popup — the same on any tab — to open the small Leeway window, which shows the same usage bars as the popup. Its **Float on top** button opens a small always-on-top window through Chrome's Document Picture-in-Picture — no separate app to install (needs Chrome 116+) — and then minimizes the Leeway window. The button has the focus when the window opens, so **Open overlay** then Enter does it too. Chrome lets only a click or key press in the Leeway window itself open that window, so the popup's click can't do both.
 
 - Both refresh live, like the popup.
 - Click the always-on-top window to collapse it to a single line; click again to expand. The window resizes to match.

diff --git a/PRIVACY.md b/PRIVACY.md
@@ -1,10 +1,10 @@
 # Privacy Policy — Leeway
 
-_Last updated: 2026-10-28_
+_Last updated: 2026-10-29_
 
-Leeway is a Chrome extension that shows how much of your **remaining** usage is
-left on Claude, ChatGPT and Gemini, in its popup, toolbar badge, and an optional
-floating overlay. This policy explains exactly what it reads, where that stays,
+Leeway is a Chrome extension that shows how much of your Claude, ChatGPT and
+Gemini usage limits you have used (or, if you switch it, what is left), in its
+popup, toolbar badge, and an optional floating overlay. This policy explains exactly what it reads, where that stays,
 and what it never does.
 
 **Unofficial project.** Leeway is not affiliated with, endorsed by, or
@@ -59,6 +59,7 @@ conversation page.
 - Which services you turned on.
 - Where you last left the Leeway window (its position and size on screen), so
   it reopens there.
+- Whether numbers are shown as used or as left (the popup's switch).
 
 All of this lives only in your browser profile, on your device. It is not sent
 anywhere. Removing the extension removes it.
@@ -99,8 +100,8 @@ If you use several Chrome profiles (for example one per Claude account), you can
 see all of their usage in one popup and overlay. This needs the Leeway helper, a
 small program you install yourself on Windows (`leeway-helper.exe`).
 
-- **What each profile sends to the helper**: the same values its popup shows —
-  remaining percentages, reset times, the plan name — plus the name you give
+- **What each profile sends to the helper**: the usage values its popup shows —
+  stored as remaining percentages — reset times, the plan name — plus the name you give
   the profile (e.g. "Work") and a random id Leeway made for that profile.
 - **What it never sends**: cookies, passwords, session or access tokens, email
   addresses, organization names, page text or conversations.

diff --git a/helper/README.md b/helper/README.md
@@ -1,7 +1,7 @@
 # Leeway helper
 
 A small Windows program that lets Leeway in several Chrome profiles show each
-other's remaining usage ("Other Chrome profiles" in the popup). Chrome starts it
+other's usage ("Other Chrome profiles" in the popup). Chrome starts it
 through [Native Messaging](https://developer.chrome.com/docs/extensions/develop/concepts/native-messaging)
 whenever a profile refreshes; it reads and writes one file and exits.
 
